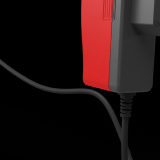
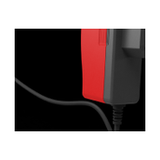
fix(estoque): redimensiona FONTE04 para caber no quadrado v7

diff --git a/public/index.html b/public/index.html
@@ -6397,7 +6397,7 @@ function renderEstoque(){
   const porUnidadeEl=document.getElementById('estoquePorUnidade');
   if(!cont) return;
   const mats=['TZPR04','UPR04','FONTE04','CINTA','TRAVAS'];
-  const icons={ TZPR04:'<img src="/tzpr.png?v=5" alt="TZPR04" class="w-12 h-12 mx-auto object-contain bg-white rounded-lg" loading="lazy">', UPR04:'<img src="/upr.png?v=5" alt="UPR04" class="w-12 h-12 mx-auto object-contain bg-white rounded-lg" loading="lazy">', FONTE04:'<img src="/fonte.png?v=6" alt="FONTE04" class="w-12 h-12 mx-auto object-contain bg-white rounded-lg" loading="lazy">', CINTA:'<img src="/cinta.png?v=5" alt="CINTA" class="w-16 h-10 mx-auto object-contain bg-white rounded-lg" loading="lazy">', TRAVAS:'<img src="/travas.png?v=5" alt="TRAVAS" class="w-12 h-12 mx-auto object-contain bg-white rounded-lg" loading="lazy">' };
+  const icons={ TZPR04:'<img src="/tzpr.png?v=5" alt="TZPR04" class="w-12 h-12 mx-auto object-contain bg-white rounded-lg" loading="lazy">', UPR04:'<img src="/upr.png?v=5" alt="UPR04" class="w-12 h-12 mx-auto object-contain bg-white rounded-lg" loading="lazy">', FONTE04:'<img src="/fonte.png?v=7" alt="FONTE04" class="w-12 h-12 mx-auto object-contain bg-white rounded-lg" loading="lazy">', CINTA:'<img src="/cinta.png?v=5" alt="CINTA" class="w-16 h-10 mx-auto object-contain bg-white rounded-lg" loading="lazy">', TRAVAS:'<img src="/travas.png?v=5" alt="TRAVAS" class="w-12 h-12 mx-auto object-contain bg-white rounded-lg" loading="lazy">' };
   let list=estoqueCache.filter(e=> String(e.contrato).toUpperCase()===estoqueContratoAtivo);
   if(estoqueUnidadeAtiva) list=list.filter(e=> String(e.unidade)===estoqueUnidadeAtiva);
   // se filtro Todas, mostrar agregado por material (soma unidades)
